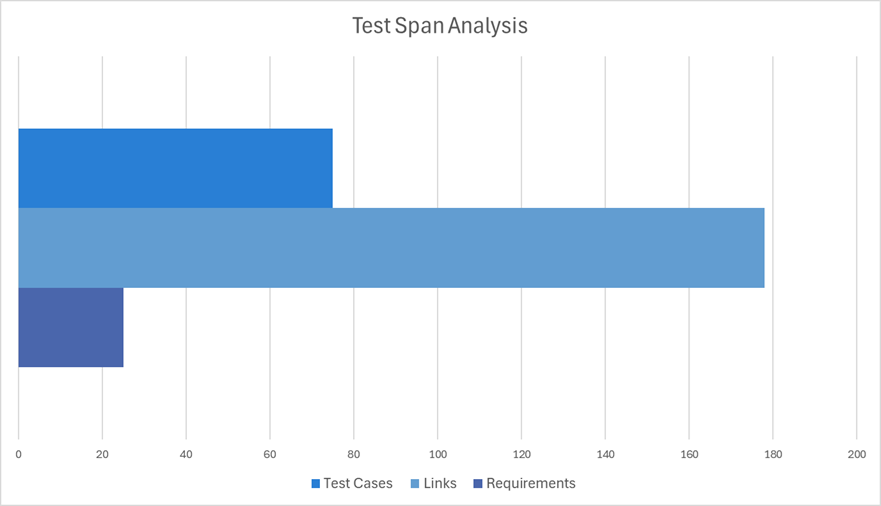
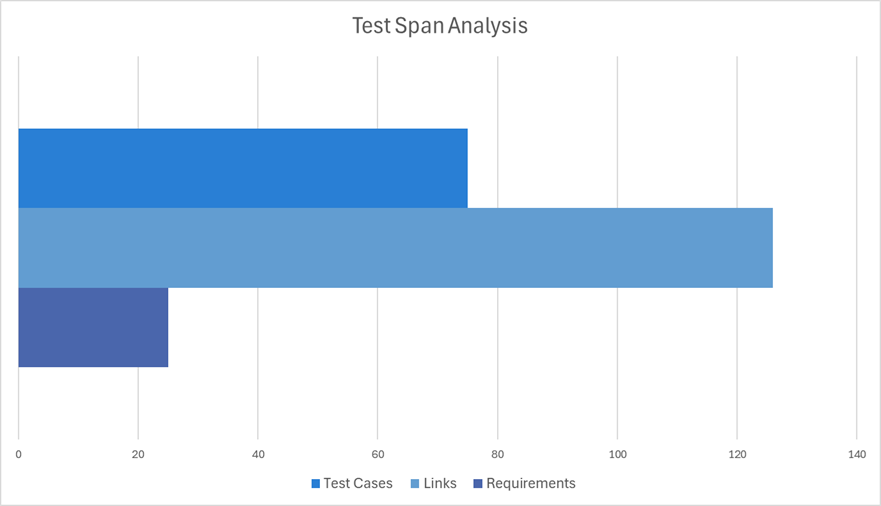
Updates

diff --git a/Readme.md b/Readme.md
@@ -450,13 +450,13 @@ The following chart lists the test cases, along with their test category, group,
 | EXP-C-02 | Functional              | Exploratory Testing   | Collector's  | [5.2.3.3](#5233-collectors-tour-report)           |
 | EXP-C-03 | Functional              | Exploratory Testing   | Collector's  | [5.2.3.3](#5233-collectors-tour-report)           |
 | EXP-C-04 | Functional              | Exploratory Testing   | Collector's  | [5.2.3.3](#5233-collectors-tour-report)           |
-| EXP-C-05 | Functional              | Exploratory Testing   | Collector's  | [5.2.3.3](#5233-collectors-tour-report)           |
-| EXP-C-06 | Functional              | Exploratory Testing   | Collector's  | [5.2.3.3](#5233-collectors-tour-report)           |
+| EXP-C-05 | Functional/Spec Val     | Exploratory Testing   | Collector's  | [5.2.3.3](#5233-collectors-tour-report)           |
+| EXP-C-06 | Functional/Spec Val     | Exploratory Testing   | Collector's  | [5.2.3.3](#5233-collectors-tour-report)           |
 | EXP-F-01 | Functional              | Exploratory Testing   | Fedex        | [5.2.3.4](#5234-fedex-tour-report)                |
 | EXP-F-02 | Functional              | Exploratory Testing   | Fedex        | [5.2.3.4](#5234-fedex-tour-report)                |
 | EXP-F-03 | Functional              | Exploratory Testing   | Fedex        | [5.2.3.4](#5234-fedex-tour-report)                |
 | EXP-F-04 | Functional              | Exploratory Testing   | Fedex        | [5.2.3.4](#5234-fedex-tour-report)                |
-| EXP-F-05 | Functional              | Exploratory Testing   | Fedex        | [5.2.3.4](#5234-fedex-tour-report)                |
+| EXP-F-05 | Functional/Spec Val     | Exploratory Testing   | Fedex        | [5.2.3.4](#5234-fedex-tour-report)                |
 | EXP-F-06 | Functional              | Exploratory Testing   | Fedex        | [5.2.3.4](#5234-fedex-tour-report)                |
 | EXP-I-01 | Functional/Stress/Perf  | Exploratory Testing   | Intellectual | [5.2.3.5](#5235-intellectual-tour)                |
 | EXP-I-02 | Functional/Stress/Perf  | Exploratory Testing   | Intellectual | [5.2.3.5](#5235-intellectual-tour)                |
@@ -466,8 +466,8 @@ The following chart lists the test cases, along with their test category, group,
 | EXP-L-02 | Functional              | Exploratory Testing   | Landmark     | [5.2.3.6](#5236-landmark-tour)                    |
 | EXP-L-03 | Functional              | Exploratory Testing   | Landmark     | [5.2.3.6](#5236-landmark-tour)                    |
 | EXP-L-04 | Functional              | Exploratory Testing   | Landmark     | [5.2.3.6](#5236-landmark-tour)                    |
-| EXP-L-05 | Functional              | Exploratory Testing   | Landmark     | [5.2.3.6](#5236-landmark-tour)                    |
-| EXP-L-06 | Functional              | Exploratory Testing   | Landmark     | [5.2.3.6](#5236-landmark-tour)                    |
+| EXP-L-05 | Functional/Spec Val     | Exploratory Testing   | Landmark     | [5.2.3.6](#5236-landmark-tour)                    |
+| EXP-L-06 | Functional/Spec Val     | Exploratory Testing   | Landmark     | [5.2.3.6](#5236-landmark-tour)                    |
 | ACC-R-01 | Functional/Spec Val     | Exploratory Testing   | Landmark     | [5.2.4.1](#5241-csvreader-acceptance-test-cases)  |
 | ACC-R-02 | Functional/Spec Val     | Exploratory Testing   | Landmark     | [5.2.4.1](#5241-csvreader-acceptance-test-cases)  |
 | ACC-W-01 | Functional              | Exploratory Testing   | Landmark     | [5.2.4.2](#5242-csvwriter-acceptance-test-case)   |
@@ -1064,10 +1064,10 @@ The code for the tests can be found in [TestWriterGraph.java](GraphBasedTesting/
 
 | Test #   | What Done                                                                                                       | Status    | Comment                                                                                                         | Test Artifacts                                                                                                                                                                                                                                              |
 | -------- | --------------------------------------------------------------------------------------------------------------- | --------- | --------------------------------------------------------------------------------------------------------------- | ----------------------------------------------------------------------------------------------------------------------------------------------------------------------------------------------------------------------------------------------------------- |
-| EXP-C-01 | Read `collector-input.csv`                                                                                      | Completed | 4 rows, 3 columns; file loaded without error                                                                    | - [Input File](/ExploratoryTesting/CsvTestFiles/collector-input.csv)<br>- [Test Execution.png](/ExploratoryTesting/Images/CollectorsTour.png)                                                                                                               |
-| EXP-C-02 | Extracted and stored all unique values of `amount` in a set                                                     | Completed | Set contained 3 entries: `500`, `600`, `700`; duplicates correctly removed                                      | - [Test Script](/ExploratoryTesting/Tests/CollectorsTour.java) <br>- [Test Execution.png](/ExploratoryTesting/Images/CollectorsTour.png)                                                                                                                    |
-| EXP-C-03 | Printed count of unique values to console                                                                       | Completed | Console log showed expected value count = 3                                                                     | - [Test Script](/ExploratoryTesting/Tests/CollectorsTourTest.java) <br>- [Test Execution.png](/ExploratoryTesting/Images/CollectorsTour.png)                                                                                                                |
-| EXP-C-04 | Re-ran test after modifying data to include lowercase and formatted values                                      | Completed | Collector distinguished values with formatting; recommend normalization pass in future iterations               | - [Test Script](/ExploratoryTesting/Tests/CollectorsTourTest.java) <br>- [Test Execution.png](/ExploratoryTesting/Images/CollectorsTour.png)                                                                                                                |
+| EXP-C-01 | Read `collector-input.csv`                                                                                      | Completed | 4 rows, 3 columns; file loaded without error                                                                    | - [Input File](/ExploratoryTesting/CsvTestFiles/collector-input.csv)                                                                                                               |
+| EXP-C-02 | Extracted and stored all unique values of `amount` in a set                                                     | Completed | Set contained 3 entries: `500`, `600`, `700`; duplicates correctly removed                                      | - [Test Script](/ExploratoryTesting/Tests/CollectorsTour.java)                                                                                                                     |
+| EXP-C-03 | Printed count of unique values to console                                                                       | Completed | Console log showed expected value count = 3                                                                     | - [Test Script](/ExploratoryTesting/Tests/CollectorsTourTest.java)                                                                                                                 |
+| EXP-C-04 | Re-ran test after modifying data to include lowercase and formatted values                                      | Completed | Collector distinguished values with formatting; recommend normalization pass in future iterations               | - [Test Script](/ExploratoryTesting/Tests/CollectorsTourTest.java)                                                                                        |
 | EXP-C-05 | Tested writing a CSV row with null, empty string, quoted string, comma-separated, and newline-containing fields | Completed | All fields were successfully written using `QuoteStrategies.ALWAYS` to enforce quoting for all field variations | - [collectors-output.csv](/ExploratoryTesting/CsvTestFiles/collectors-output.csv) <br>- [Test Script](/ExploratoryTesting/Tests/CollectorsTourTest.java) <br>- [Test Execution.png](/ExploratoryTesting/Images/CollectorsTour.png)                          |
 | EXP-C-06 | Wrote multiple rows to a CSV with each row targeting a unique field variation (null, empty, quote, newline)     | Completed | Validated correct quoting and escaping behavior per field type; newline preserved, quote correctly escaped      | - [collectors-output-multivariant.csv](/ExploratoryTesting/CsvTestFiles/collectors-output-multivariant.csv) <br>- [Test Script](/ExploratoryTesting/Tests/CollectorsTourTest.java)<br>- [Test Execution.png](/ExploratoryTesting/Images/CollectorsTour.png) |
 
@@ -1087,7 +1087,7 @@ The code for the tests can be found in [TestWriterGraph.java](GraphBasedTesting/
 
 | NR       | What Done                                                                                  | Status    | Comment                                                                                           | Test Artifacts                                                                                                                                                                                                                                                           |
 | -------- | ------------------------------------------------------------------------------------------ | --------- | ------------------------------------------------------------------------------------------------- | ------------------------------------------------------------------------------------------------------------------------------------------------------------------------------------------------------------------------------------------------------------------------ |
-| EXP-F-01 | Read `fedex-input.csv` and extracted columns `id` and `amount`                             | Completed | Correct values were read from input, verified manually                                            | -[Test Script](/ExploratoryTesting/Tests/FedExTour.java)<br>-[Input CSV](/ExploratoryTesting/CsvTestFiles/fedex-input.csv)<br>-[Test Script](/ExploratoryTesting/Tests/FedExTour.java)                                                                                   |
+| EXP-F-01 | Read `fedex-input.csv` and extracted columns `id` and `amount`                             | Completed | Correct values were read from input, verified manually                                            | -[Test Script](/ExploratoryTesting/Tests/FedExTour.java)<br>-[Input CSV](/ExploratoryTesting/CsvTestFiles/fedex-input.csv)                                                                                   |
 | EXP-F-02 | Wrote selected columns to `fedex-output.csv` using `CsvWriter`                             | Completed | File format and values were correct in output. Fields aligned and properly quoted where necessary | -[Output](/ExploratoryTesting/CsvTestFiles/fedex-output.csv)<br>-[Test Script](/ExploratoryTesting/Tests/FedExTour.java)                                                                                                                                                 |
 | EXP-F-03 | Tested writing of structured input CSV using default CSVWriter settings                    | Completed | Verified that each input row from `fedex-input.csv` was correctly written to `fedex-output.csv`   | -[fedex-input.csv](/ExploratoryTesting/CsvTestFiles/fedex-input.csv)<br>[fedex-output.csv](/ExploratoryTesting/CsvTestFiles/fedex-output.csv)-<br>[Test Execution.png](/ExploratoryTesting/Images/FedEx.png)-[Test Script](/ExploratoryTesting/Tests/FedExTourTest.java) |
 | EXP-F-04 | Tested writing of CSV with semicolon `;` as custom field separator                         | Completed | Created new file with expected semicolon-separated values using same input                        | -[fedex-output-semicolon.csv](/ExploratoryTesting/CsvTestFiles/fedex-output-semicolon.csv)-<br>[Test Execution.png](/ExploratoryTesting/Images/FedEx.png)-[Test Script](/ExploratoryTesting/Tests/FedExTourTest.java)                                                    |
@@ -1277,44 +1277,10 @@ The totals along the right side of the matrix indicate how many requirements eac
 
 **Test Span Analysis**
 <br><br>
-The below chart was adapted from those demonstrated in Lesson 5.3 of the Canvas Module. This visual demonstrates that the team's project had 25 requirements, covered by 75 tests, with 178 links between the tests and requirements.  This means that, on average, each requirement was covered by approximately 7 tests (178 links divided by 25 requirements) and that, conversely, each test covered an average of ~2.4 requirements (178 links divided by 75 tests).  The team believes that these numbers show an appropriate balance between thoroughness of testing and workload.
+The below chart was adapted from those demonstrated in Lesson 5.3 of the Canvas Module. This visually demonstrates that the team's project had 25 requirements, covered by 75 tests, with 126 links between the tests and requirements.  This means that, on average, each requirement was covered by approximately 5 tests (126 links divided by 25 requirements) and that, conversely, each test covered an average of ~1.68 requirements (126 links divided by 75 tests).  The team believes that these numbers show an appropriate balance between thoroughness of testing and workload.
 <br><br>
 <img src="Images/TestSpan.png" alt="Test Span" width="600px"/>
 <br>
-
-**Summary Matrix**
-
-The following represents a summary view of the traceability matrix found above, with test groups across the top and requirements listed down the left side.
-
-| Requirement                                                         |  IDM   |  GBT   |  EXP   |  ACC   |
-| ------------------------------------------------------------------- | ------ | ------ | ------ | ------ |
-| REQ-R-01: Read CSV with configurable field separators               | X      |        |        | X      |
-| REQ-R-02: Handle fields enclosed in quote characters                | X      |        |        |        |
-| REQ-R-03: Support comment lines with configurable comment character | X      |        |        |        |
-| REQ-R-04: Skip or retain comments based on strategy                 | X      |        |        |        |
-| REQ-R-05: Parse inconsistent column counts                          | X      |        |        |        |
-| REQ-R-06: Skip or retain empty lines                                | X      |        |        |        |
-| REQ-R-07: Handle BOM headers                                        | X      |        |        |        |
-| REQ-R-08: Read large CSV files with good performance                | X      |        | X      |        |
-| REQ-R-09: Read compressed CSV files (gzip)                          |        |        | X      |        |
-| REQ-R-10: Map CSV records to JavaBeans                              |        |        | X      |        |
-| REQ-R-11: Conditional line skipping via predicate                   |        | X      | X      |        |
-| REQ-R-12: Handle malformed input with exceptions                    | X      |        |        |        |
-| REQ-R-13: Read "standard" CSV files w/no config changes             | X      |        | X      |        |
-| REQ-R-14: Trimming and stripping of space characters                |        |        | X      |        |
-| REQ-R-15: User Story - space separators/read from String            |        |        |        | X      |
-| REQ-W-01: Write CSV with configurable separators                    | X      |        | X      | X      |
-| REQ-W-02: Apply configurable quote characters                       | X      |        |        | X      |
-| REQ-W-03: Implement quote strategies                                | X      |        | X      | X      |
-| REQ-W-04: Handle null and empty values                              | X      | X      | X      | X      |
-| REQ-W-05: Support different line delimiters                         | X      |        | X      | X      |
-| REQ-W-06: Escape special characters                                 | X      |        | X      | X      |
-| REQ-W-07: Write comments to output                                  |        |        | X      |        |
-| REQ-W-08: Write to OutputStream and Writer                          |        | X      |        |        |
-| REQ-W-09: Write "standard" CSV files w/no config changes            | X      |        | X      | X      |
-| REQ-W-10: User Story - structured records                           |        |        |        | X      |
-
-Note: IDM, GBT, EXP, and ACC represent the test groups described in [Section 5.1](#51-test-group-definition)
 
 # 6. Test Environment
 
